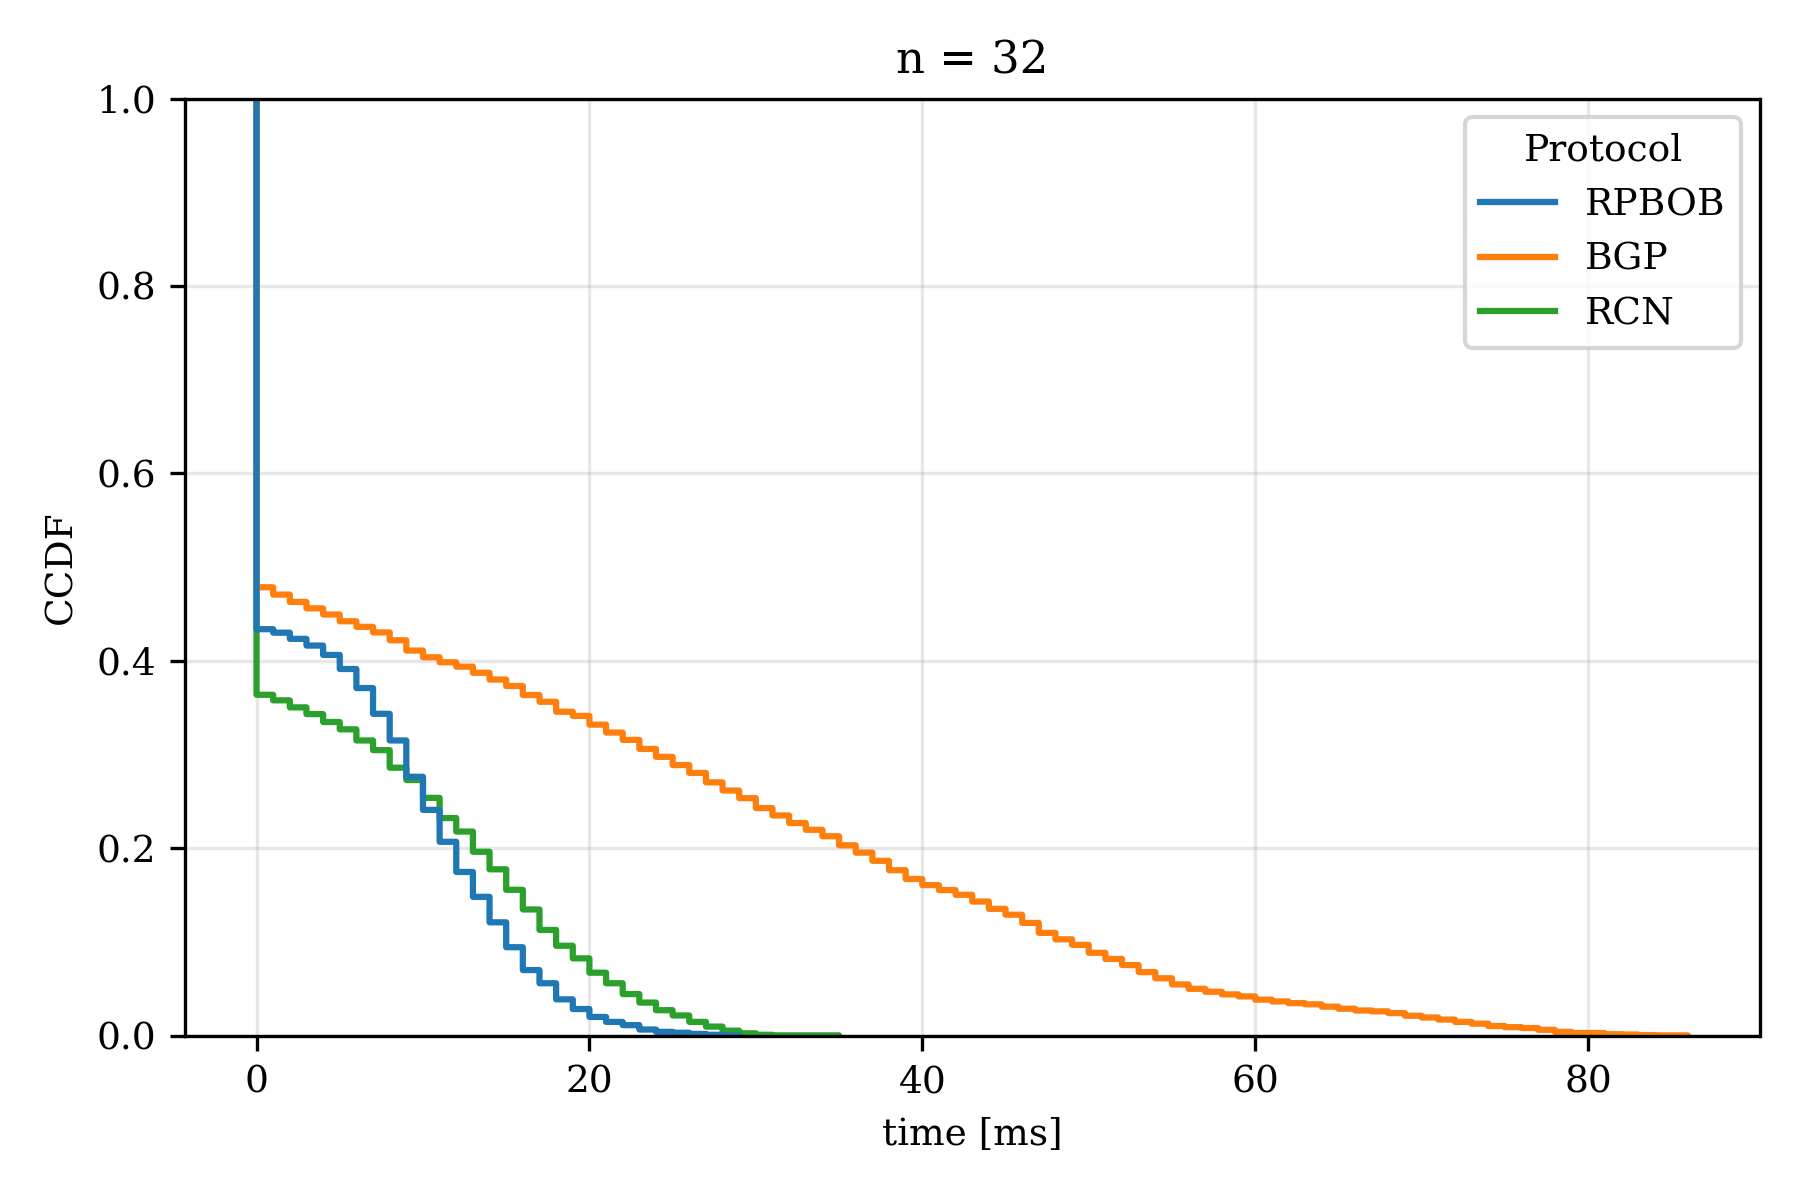
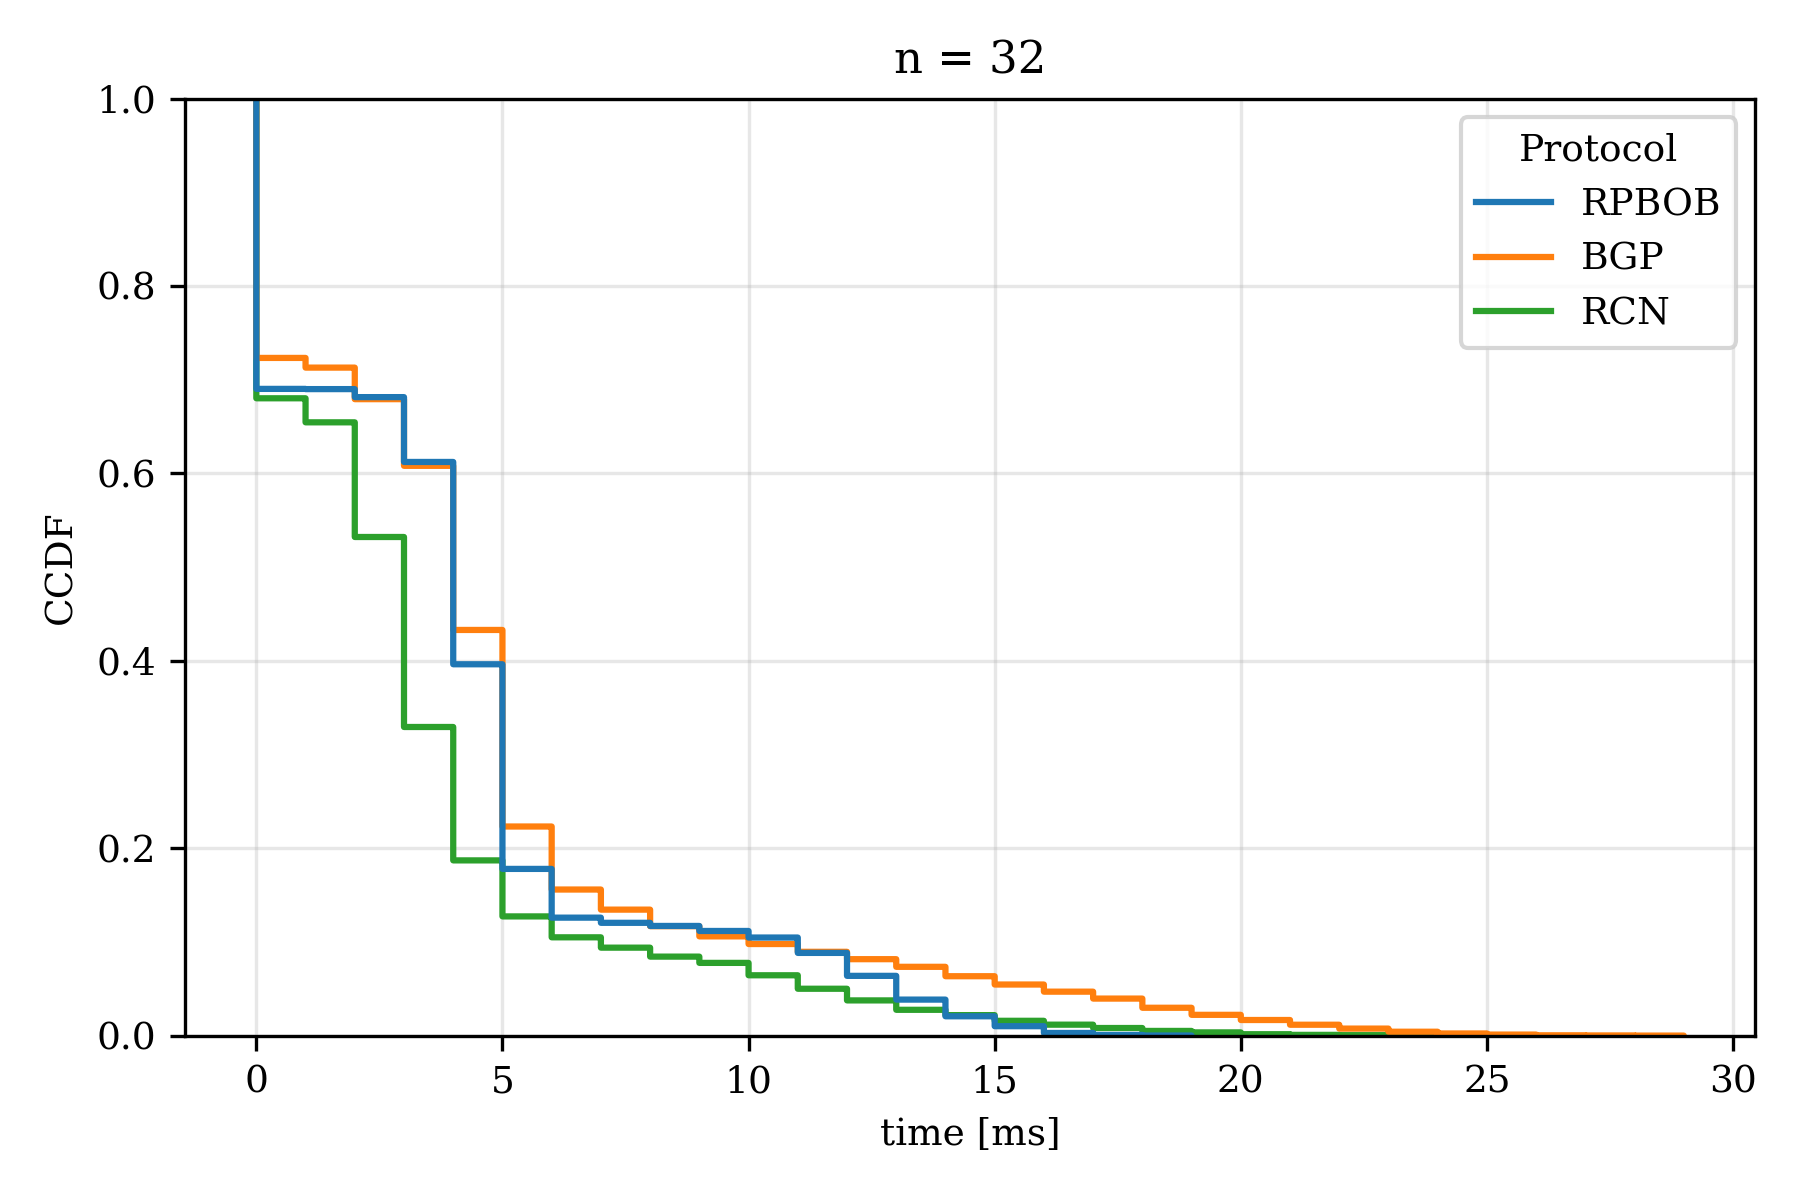
feat(fixed bgp)

diff --git a/tools/plotting/MsgRate.py b/tools/plotting/MsgRate.py
@@ -17,7 +17,7 @@ metric = "hops"
 mode = "unit"
 node_counts = [4, 8, 16, 32, 64]
 
-df_rpbob = pd.read_csv(f'../../data/output/clique/bclique_n64/rpbob/{file}_{mode}_A_{metric}_N_adaptative_S_linkFailure_period_1.0_msglog.csv')
+df_rpbob = pd.read_csv(f'../../data/output/clique/bclique_n64/rpbob/{file}_{mode}_A_{metric}_N_adaptative_S_linkFailure_period_3.0_msglog.csv')
 df_bgp = pd.read_csv(f'../../data/output/clique/bclique_n64/bgp/{file}_{mode}_A_{metric}_S_linkFailure_msglog.csv')
 df_rcn = pd.read_csv(f"../../data/output/clique/bclique_n64/rcn/{file}_{mode}_A_{metric}_S_linkFailure_msglog.csv")
 
@@ -27,11 +27,11 @@ def bin_series(df, bin_freq='1s'):
     df = df.copy()
     df['time_ms'] = pd.to_timedelta(df['time'], unit='s')
     series = df.groupby('time_ms')['msg'].sum()
-    binned = series.resample(bin_freq).sum()
+    binned = series.resample(bin_freq).mean()
     binned.index = binned.index.total_seconds().astype(int)
     return binned
 
-binned_rpbob = bin_series(df_rpbob, "1s")
+binned_rpbob = bin_series(df_rpbob, "9s")
 binned_bgp = bin_series(df_bgp, "1s")
 binned_rcn = bin_series(df_rcn, "1s")
 
@@ -62,7 +62,7 @@ plt.xlabel('time [ms]')
 plt.ylabel(f'Messages / $\Delta$')
 
 plt.ylim([-0.1, max(binned_bgp.values) + 10**8])
-plt.xlim([-1, max(df_bgp["time"])- FAILURE_TIME+1])
+plt.xlim([-0.1, max(df_bgp["time"])- FAILURE_TIME+0.1])
 plt.legend()
 plt.grid(alpha=0.3, which='both')
 plt.tight_layout()

diff --git a/src/protocol/bgp/state/bgp-attribute.hpp b/src/protocol/bgp/state/bgp-attribute.hpp
@@ -84,7 +84,7 @@ template <class A, class Ext, class Ord> struct BGPAttribute {
 	// Used for detecting actual state change.
 	bool operator==(const BGPAttribute &other) const
 	{
-		return attribute == other.attribute && as_path == other.as_path;
+		return attribute == other.attribute;
 	}
 
 	// Inequality: intentionally not the negation of ==.
@@ -122,10 +122,10 @@ template <class A, class Ext, class Ord> struct BGPAttribute {
 			return BGPAttribute::Invalid();
 		}
 
-		// the path is already too long (> MaxASPathLength hops)
+		/* the path is already too long (> MaxASPathLength hops)
 		if (static_cast<int>(a.as_path.size()) > MaxASPathLength) {
 			return BGPAttribute::Invalid();
-		}
+		}*/
 
 		// the tail AS is already in the path (loop detection).
 		if (std::find(a.as_path.begin(), a.as_path.end(), link.as_path[0]) !=

diff --git a/tools/plotting/StabTime.py b/tools/plotting/StabTime.py
@@ -14,7 +14,7 @@ plt.rcParams.update(
 )
 
 NODE_COUNTS = [4, 8, 16, 32, 64]
-DATASET_TAG = "DelayLength_uniform_A_lengths"
+DATASET_TAG = "DelayLength_equal_A_lengths"
 DATA_ROOT = "../../data/output/clique"
 OUTPUT_DIR = os.path.join("outputs")
 
@@ -24,8 +24,8 @@ os.makedirs(OUTPUT_DIR, exist_ok=True)
 def load_convergence(n):
     base = f"{DATA_ROOT}/bclique_n{n}"
     term_rpbob = pd.read_csv(f"{base}/rpbob/{DATASET_TAG}_N_adaptative_S_linkFailure_period_1.0_convergence.csv")
-    term_bgp = pd.read_csv(f"{base}/bgp/{DATASET_TAG}_S_linkFailure_convergence.csv")
     term_rcn = pd.read_csv(f"{base}/rcn/{DATASET_TAG}_S_linkFailure_convergence.csv")
+    term_bgp = pd.read_csv(f"{base}/bgp/{DATASET_TAG}_S_linkFailure_convergence.csv")
 
     term_rpbob["Protocol"] = "RPBOB"
     term_bgp["Protocol"] = "BGP"

diff --git a/tools/plotting/BoxenStabTime.py b/tools/plotting/BoxenStabTime.py
@@ -15,9 +15,9 @@ plt.rcParams.update(
     }
 )
 
-file = "DelayHops"
-metric = "hops"
-mode = "unit"
+file = "DelayLength"
+metric = "lengths"
+mode = "equal"
 node_counts = [4, 8, 16, 32, 64]
 protocol_paths = {
     r"RPBOB $\Delta = 1.0$": f"../../data/output/clique/bclique_n{{n}}/rpbob/{file}_{mode}_A_{metric}_N_adaptative_S_linkFailure_period_1.0_convergence.csv",
@@ -62,7 +62,7 @@ else:
         data=df,
         hue="Protocol",
         showfliers=True,
-        k_depth="full",
+        k_depth="tukey",
     )
     for container in ax.containers:
         ax.bar_label(container, fmt='%.1f', padding=3, fontsize=8)
